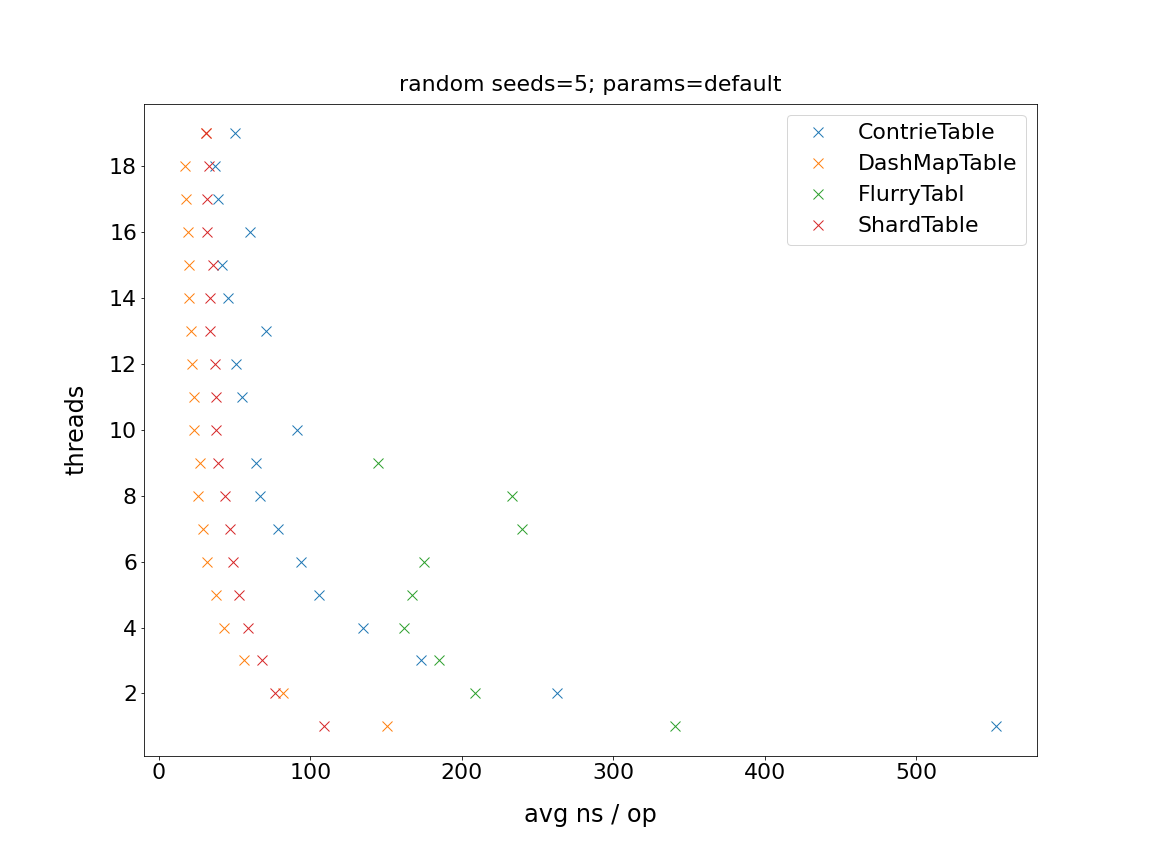
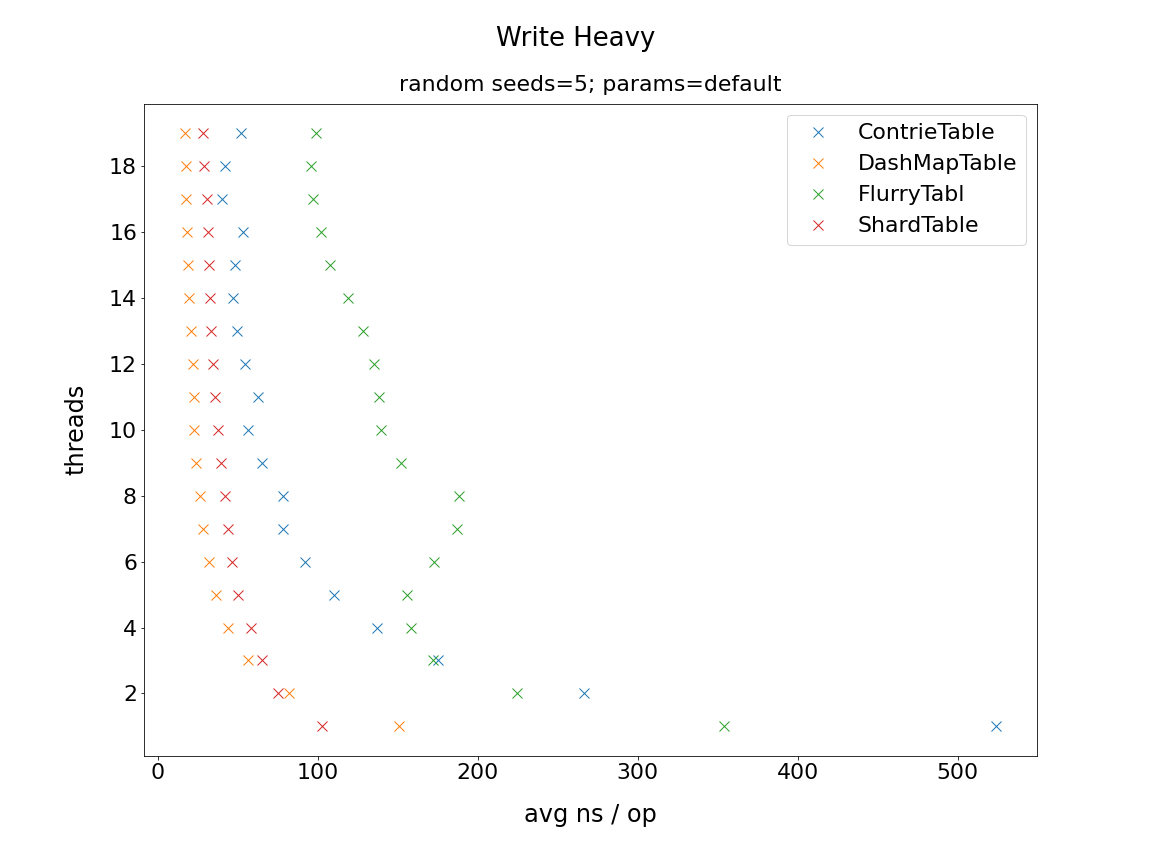
Update pics; trace mem bug

diff --git a/benchmarks/src/main.rs b/benchmarks/src/main.rs
@@ -73,8 +73,8 @@ fn main() {
 
     let workloads = vec![
         //        ("read_heavy", Mix::read_heavy()),
-        ("write_heavy", Mix::insert_heavy()),
-        ("update_heavy", Mix::update_heavy()),
+        // ("write_heavy", Mix::insert_heavy()),
+        //("update_heavy", Mix::update_heavy()),
         ("uniform", Mix::uniform()),
     ];
 
@@ -87,12 +87,12 @@ fn main() {
         // random seed is used in each run
         // not sure what impact it has, but it probably doesn't hurt to
         // run this a handful of times..
-        for trial_num in 0..5 {
+        for trial_num in 0..15 {
             let span = info_span!("trial_num", trial_num = trial_num);
             let _guard = span.enter();
-            bench::<_, ContrieTable<u64>>(work);
-            bench::<_, DashMapTable<u64>>(work);
-            bench::<_, ShardTable<u64>>(work);
+            //bench::<_, ContrieTable<u64>>(work);
+            //bench::<_, DashMapTable<u64>>(work);
+            //bench::<_, ShardTable<u64>>(work);
             bench::<_, FlurryTable>(work);
         }
         // seems like these are slow outliers

diff --git a/benchmarks/src/adapters.rs b/benchmarks/src/adapters.rs
@@ -9,11 +9,11 @@ use contrie::ConMap;
 use dashmap::DashMap;
 use fxhash::FxBuildHasher;
 use hashbrown::HashMap;
-use sharded::{RwLock, Shard};
+use sharded::Map;
 use std::sync::{Arc, Mutex};
 
 #[derive(Clone)]
-pub struct ShardTable<K>(Arc<Shard<RwLock<HashMap<K, u32>>>>);
+pub struct ShardTable<K>(Arc<Map<K, u32>>);
 
 impl<K> Collection for ShardTable<K>
 where
@@ -21,8 +21,7 @@ where
 {
     type Handle = Self;
     fn with_capacity(capacity: usize) -> Self {
-        let m = Arc::new(Shard::from(HashMap::with_capacity(capacity)));
-        Self(m)
+        Self(Arc::new(Map::with_capacity(capacity)))
     }
 
     fn pin(&self) -> Self::Handle {

diff --git a/benchmarks/src/ec2.rs b/benchmarks/src/ec2.rs
@@ -1,2 +1,2 @@
 // https://github.com/mit-pdos/noria-benchmarks/blob/master/noria-benchmarks/lobsters/src/ec2.rs
-
+fn main() {}

diff --git a/benchmarks/README.md b/benchmarks/README.md
@@ -1,0 +1,21 @@
+
+### Average Performance by Implementation (
+
+This ran each implementation over the presets in [`bustle::Mix`](https://docs.rs/bustle/0.4.1/bustle/struct.Mix.html) for 5 
+iterations/random seeds. Lower numbers are better. Approaches using a single `std::sync` Lock were discarded for clarity (they are
+a lot slower).
+
+**Read Heavy**
+
+All implementations are pretty close but `sharded` wins by some margin until
+the high thread counts. At `threads=1`, `sharded` shows a significant advantage.
+`dashmap` shows the worst overall performance.
+
+![Read Heavy Performance](benchmarks/avg_performance_read_heavy.png)
+
+![Write Heavy Performance](avg_performance_write_heavy.png)
+
+![Update Heavy Performance](avg_performance_update_heavy.png)
+
+![Uniform Performance](avg_performance_uniform.png)
+
